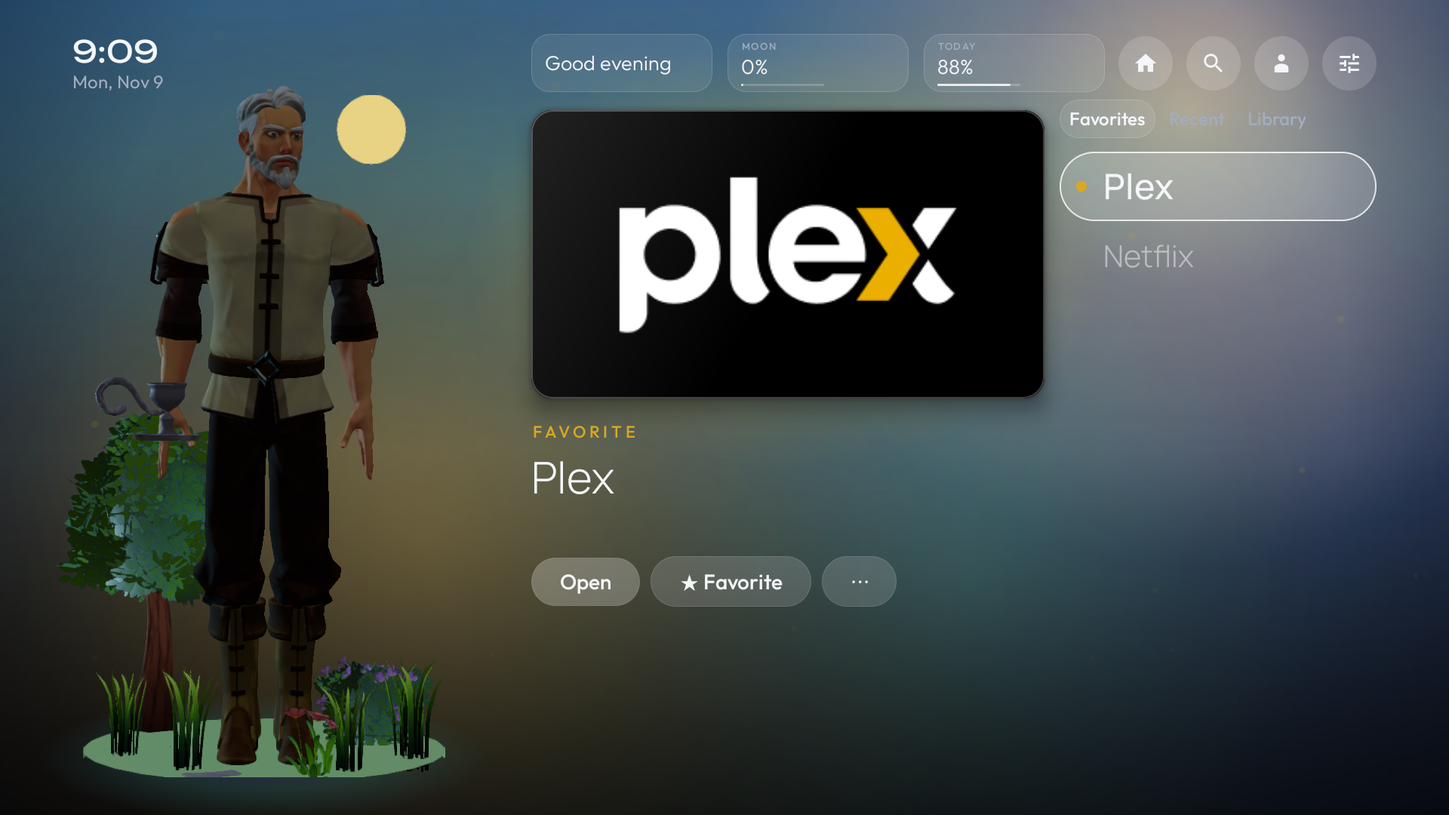
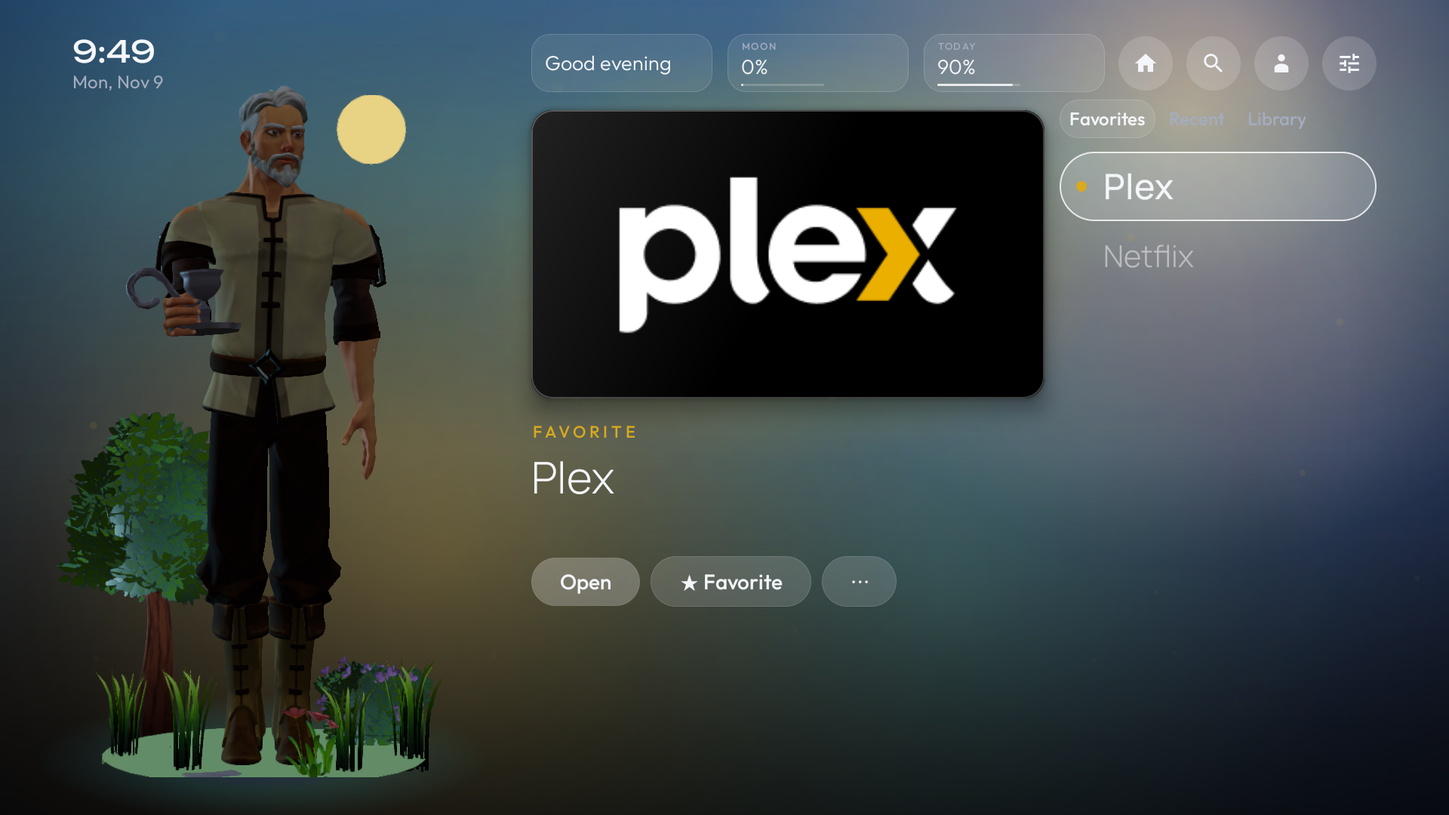
Compose poses with explicit arm ownership; umbrella grip row; safer Filament cleanup
Gestures no longer fight held layers: a prop or the umbrella owns the right arm and the weather
pose owns the left, so arm gestures on an owned arm are dropped while head and eyes still react.
Prop swaps go through an empty hand. Assets are destroyed when loading fails partway; engine
bookkeeping is cleared on destroy. Docs and policy tests updated.

diff --git a/app/src/main/java/dev/l1avzh/haven/CharacterLogic.kt b/app/src/main/java/dev/l1avzh/haven/CharacterLogic.kt
@@ -159,6 +159,8 @@ object PropGrips {
         "axe" to Grip(-0.50f, 0.10f, -1.00f, -0.10f, 1f),
         "staff" to Grip(-0.30f, 0.10f, -1.10f, -0.20f, 1f),       // planted beside the foot, gripped at chest height
     )
+    /** The umbrella is held by the weather stance, not chosen in the Studio; its arm pose lives here with the other grips (canopy leaning slightly back, over the head). */
+    val UMBRELLA = Grip(-0.60f, -0.06f, -1.20f, -0.05f, 1f)
     fun of(prop: String): Grip? = table[prop]
 }
 
@@ -175,10 +177,12 @@ class Pose {
     var curlR = 0f; var curlL = 0f
     /** How much of the saved prop, the umbrella and the bed is "present": the renderer scales each to this, so they grow and shrink with the pose instead of popping. */
     var propScale = 1f; var umbrellaScale = 0f; var bedScale = 0f
+    /** The prop the right hand is carrying right now (or putting away / taking out), so the renderer never shows a stale one. */
+    var heldProp = "none"
     /** 0 standing .. 1 lying down; the camera widens with it so the whole bed fits. */
     var sleepFrame = 0f
     fun clear() { rot.fill(0f); hipsX = 0f; hipsY = 0f; hipsZ = 0f; rootYaw = 0f; rootRoll = 0f; rootPitch = 0f; rootScale = 1f; rootX = 0f; rootY = 0f; eyes = 1f
-        curlR = 0f; curlL = 0f; propScale = 1f; umbrellaScale = 0f; bedScale = 0f; sleepFrame = 0f }
+        curlR = 0f; curlL = 0f; propScale = 1f; umbrellaScale = 0f; bedScale = 0f; sleepFrame = 0f; heldProp = "none" }
     fun add(joint: String, pitch: Float, yaw: Float, roll: Float) {
         val i = INDEX[joint] ?: return; rot[i*3] += pitch; rot[i*3 + 1] += yaw; rot[i*3 + 2] += roll
     }
@@ -214,7 +218,9 @@ class CharacterAnimator(private val reactor: CharacterReactor) {
 
     // weights derived each frame
     private var umb = 0f      // umbrella weight: the strongest weather stance
-    private var free = 0f     // how much the right arm is busy (prop or umbrella): one-handed gestures use the left arm by this much
+    private var rBusy = 0f    // how much the right arm is owned by a prop or the umbrella; one-handed gestures move to the left arm by this much
+    private var lBusy = 0f    // how much the left arm is owned by the weather pose; gestures on it are dropped by this much
+    private var shownProp = "none"   // the prop the right hand carries now; changes only through an empty hand, so a swap is put-away then take-out
 
     fun update(nowMs: Long, motion: Float): Pose {
         val t = nowMs / 1000.0
@@ -226,10 +232,12 @@ class CharacterAnimator(private val reactor: CharacterReactor) {
         for (s in Stance.values()) stances[s.ordinal] = ease(stances[s.ordinal], if (reactor.stance == s && s != Stance.SLEEP) 1f else 0f, dt, 2.6, snap)
         umb = 0f; for (s in Stance.values()) if (s != Stance.NONE && s != Stance.SLEEP) umb = max(umb, stances[s.ordinal])
         val awake = 1f - smooth(sleep / 0.3f)                      // lying down takes the prop and the arm pose away first
-        val grip = PropGrips.of(reactor.carried)
-        hold = ease(hold, if (grip != null) 1f else 0f, dt, 3.0, snap)
+        if (shownProp != reactor.carried && (hold <= 0.03f || snap)) shownProp = reactor.carried     // a different prop is swapped in only once the hand is empty
+        val grip = PropGrips.of(shownProp)
+        hold = ease(hold, if (grip != null && shownProp == reactor.carried) 1f else 0f, dt, 3.0, snap)
+        pose.heldProp = shownProp
         val carry = hold * (1f - umb) * awake                      // the saved prop is carried only when nothing stronger holds the hand
-        free = max(carry, umb) * awake
+        rBusy = max(carry, umb) * awake; lBusy = umb * awake
         pose.propScale = if (grip != null) carry else 0f
         pose.umbrellaScale = umb * awake
         pose.curlR = max(carry * (grip?.curl ?: 0f), umb * awake); pose.curlL = 0.16f
@@ -308,7 +316,8 @@ class CharacterAnimator(private val reactor: CharacterReactor) {
 
     /** Holding an umbrella with the right arm, plus what the weather does to the rest of the body. */
     private fun stancePose(s: Stance, t: Double, w: Float, motion: Float) {
-        pose.add("upperarm_r", -0.55f * w, 0f, -0.10f * w); pose.add("forearm_r", -1.25f * w, 0f, 0f); pose.add("hand_r", -0.05f * w, 0f, 0f)
+        val u = PropGrips.UMBRELLA
+        pose.add("upperarm_r", u.upper * w, 0f, u.roll * w); pose.add("forearm_r", u.fore * w, 0f, 0f); pose.add("hand_r", u.hand * w, 0f, 0f)
         when (s) {
             Stance.RAIN -> { pose.add("head", -0.1f * w, 0f, 0f); pose.add("upperarm_l", -0.2f * w, 0f, -0.22f * w); pose.add("forearm_l", -0.55f * w, 0f, 0f) }
             Stance.SNOW -> { pose.add("head", -0.18f * w, 0f, 0.05f * w); pose.add("upperarm_l", -0.35f * w, 0f, -0.28f * w); pose.add("forearm_l", -0.5f * w, 0f, 0f) }
@@ -328,14 +337,17 @@ class CharacterAnimator(private val reactor: CharacterReactor) {
         }
     }
 
-    /** One arm. [side] is 'l' or 'r'; a positive [roll] always means "away from the body". */
-    private fun arm(side: Char, up: Float, roll: Float, fore: Float, hand: Float, w: Float) {
-        if (w <= 0f) return
+    /**
+     * One arm of a gesture. [side] is 'l' or 'r'; a positive [roll] always means "away from the body". An arm that the held layers own (the right one while it
+     * carries a prop or the umbrella, the left one while the weather pose uses it) ignores the gesture by that much: gestures never fight a held pose.
+     */
+    private fun arm(side: Char, up: Float, roll: Float, fore: Float, hand: Float, w0: Float) {
+        val w = w0 * (1f - (if (side == 'r') rBusy else lBusy)); if (w <= 0f) return
         val sgn = if (side == 'r') 1f else -1f
         pose.add("upperarm_$side", up * w, 0f, roll * sgn * w); pose.add("forearm_$side", fore * w, 0f, 0f); pose.add("hand_$side", hand * w, 0f, 0f)
     }
-    /** A one-handed gesture: the right hand normally, the free left hand while the right one is busy, blended as that changes. */
-    private fun oneHand(up: Float, roll: Float, fore: Float, hand: Float, w: Float) { arm('r', up, roll, fore, hand, w * (1f - free)); arm('l', up, roll, fore, hand, w * free) }
+    /** A one-handed gesture: the right hand when it is empty, the left (if the weather is not using it) while the right is busy; with both busy it is dropped. */
+    private fun oneHand(up: Float, roll: Float, fore: Float, hand: Float, w: Float) { arm('r', up, roll, fore, hand, w); arm('l', up, roll, fore, hand, w * rBusy) }
 
     /** Relaxed "waiting for a selection": weight on one leg, a free hand at the chin, the head tilted, slow breathing. */
     private fun waitingPose(t: Double, w: Float) {
@@ -376,7 +388,7 @@ class CharacterAnimator(private val reactor: CharacterReactor) {
                 pose.eyes = max(pose.eyes, 1f + 0.35f * e)
             }
             Beat.LONG_PRESS -> {                                    // both hands lift: "options" (a busy hand stays where it is)
-                arm('l', -0.55f, 0.15f, -0.8f, 0f, e); arm('r', -0.55f, 0.15f, -0.8f, 0f, e * (1f - free))
+                arm('l', -0.55f, 0.15f, -0.8f, 0f, e); arm('r', -0.55f, 0.15f, -0.8f, 0f, e)
                 pose.add("head", 0.05f * e, 0f, 0f)
             }
             Beat.PREVIEW -> {                                       // quarter turn to show the outfit off
@@ -393,7 +405,7 @@ class CharacterAnimator(private val reactor: CharacterReactor) {
             }
             Beat.LISTEN -> {                                        // hands to the ears, a small nod to a beat that only the character hears
                 val bob = sin(u * 2 * PI.toFloat() * 3f) * m
-                arm('l', -0.9f, 0.25f, -1.7f, 0f, e); arm('r', -0.9f, 0.25f, -1.7f, 0f, e * (1f - free))
+                arm('l', -0.9f, 0.25f, -1.7f, 0f, e); arm('r', -0.9f, 0.25f, -1.7f, 0f, e)
                 pose.add("head", 0.05f * bob * e, 0f, 0.03f * bob * e); pose.hipsY += 0.006f * bob * e
             }
             Beat.WATCH -> {                                         // turns toward the screen and presents a remote with the free hand
@@ -403,7 +415,7 @@ class CharacterAnimator(private val reactor: CharacterReactor) {
             }
             Beat.LAUNCH_LISTEN -> {                                 // a bigger version of the same gesture as the app opens
                 val bob = sin(u * 2 * PI.toFloat() * 3f) * m
-                arm('l', -1.0f, 0.3f, -1.8f, 0f, e); arm('r', -1.0f, 0.3f, -1.8f, 0f, e * (1f - free))
+                arm('l', -1.0f, 0.3f, -1.8f, 0f, e); arm('r', -1.0f, 0.3f, -1.8f, 0f, e)
                 pose.add("head", 0.08f * bob * e, 0f, 0f); pose.eyes = max(pose.eyes, 1f + 0.2f * e)
             }
             Beat.LAUNCH_WATCH -> {
@@ -417,7 +429,7 @@ class CharacterAnimator(private val reactor: CharacterReactor) {
             }
             Beat.EQUIP -> {                                         // a full turn on the spot while the new look is swapped in
                 pose.rootYaw = (2 * PI.toFloat()) * smooth(u) * m
-                arm('l', -0.1f, 0.3f, 0f, 0f, e); arm('r', -0.1f, 0.3f, 0f, 0f, e * (1f - free))
+                arm('l', -0.1f, 0.3f, 0f, 0f, e); arm('r', -0.1f, 0.3f, 0f, 0f, e)
                 pose.hipsY += 0.015f * sin(u * PI.toFloat()) * m
             }
         }

diff --git a/app/src/test/java/dev/l1avzh/haven/DayWeatherTest.kt b/app/src/test/java/dev/l1avzh/haven/DayWeatherTest.kt
@@ -102,9 +102,9 @@ class SleepAndStanceTest {
     @Test fun coldRaisesTheUmbrellaArmAndReducedMotionKeepsTheStill() {
         val r = CharacterReactor(); val a = CharacterAnimator(r); r.stance = Stance.COLD
         var p = a.update(0, 1f); for (t in 16..4000 step 16) p = a.update(t.toLong(), 1f)
-        assertTrue("forearm raised", -p.get("forearm_r", 0) > 1.2f)
+        assertTrue("forearm raised", -p.get("forearm_r", 0) > 1.1f)
         val calm = CharacterAnimator(r); var q = calm.update(0, 0f); for (t in 16..4000 step 16) q = calm.update(t.toLong(), 0f)
-        assertTrue("reduced motion keeps the pose", -q.get("forearm_r", 0) > 1.2f)
+        assertTrue("reduced motion keeps the pose", -q.get("forearm_r", 0) > 1.1f)
         val s2 = CharacterReactor(); s2.stance = Stance.SLEEP; val z = CharacterAnimator(s2); var sp = z.update(0, 0f); for (t in 16..6000 step 16) sp = z.update(t.toLong(), 0f)
         assertTrue("and still lies down", sp.rootPitch < -1.4f)
     }
@@ -184,6 +184,48 @@ class PropPolicyTest {
         for (t in 2616..3200 step 16) { val pf = af.update(t.toLong(), 1f); val pb = ab.update(t.toLong(), 1f)
             rightMove = maxOf(rightMove, kotlin.math.abs(pb.get("forearm_r", 0) - base)); leftLift = maxOf(leftLift, -pb.get("forearm_l", 0)); freeRight = maxOf(freeRight, -pf.get("forearm_r", 0)) }
         assertTrue("the busy right arm stays put ($rightMove)", rightMove < 0.1f); assertTrue("the left hand lifts instead ($leftLift)", leftLift > 0.5f); assertTrue("an empty right hand does the gesture", freeRight > 0.5f)
+    }
+    private fun arms(p: Pose) = listOf("upperarm_l", "forearm_l", "hand_l", "upperarm_r", "forearm_r", "hand_r").flatMap { j -> (0..2).map { p.get(j, it) } }
+    private fun rainPose(prop: String, beat: (CharacterReactor, Long) -> Unit, waiting: Boolean = false): Pair<List<Float>, List<Float>> {
+        // compare mid-gesture frames: run both worlds in lockstep
+        val rb = CharacterReactor(); rb.carried = prop; rb.stance = Stance.RAIN; rb.waiting = waiting; val ab = CharacterAnimator(rb)
+        val rq = CharacterReactor(); rq.carried = prop; rq.stance = Stance.RAIN; rq.waiting = waiting; val aq = CharacterAnimator(rq)
+        for (t in 0..5000 step 16) { ab.update(t.toLong(), 1f); aq.update(t.toLong(), 1f) }
+        beat(rb, 5000)
+        var maxDiff = 0f; var headMoved = 0f
+        for (t in 5016..5700 step 16) { val pb = ab.update(t.toLong(), 1f); val pq = aq.update(t.toLong(), 1f)
+            arms(pb).zip(arms(pq)).forEach { (x, y) -> maxDiff = maxOf(maxDiff, kotlin.math.abs(x - y)) }; headMoved = maxOf(headMoved, kotlin.math.abs(pb.get("head", 0) - pq.get("head", 0))) }
+        return listOf(maxDiff) to listOf(headMoved)
+    }
+    @Test fun gesturesNeverFightTheWeatherPoseOrTheUmbrellaHand() {
+        for (prop in listOf("none", "sword", "book", "staff", "candle")) for (k in listOf(KeyKind.OK, KeyKind.BACK)) {
+            val (arm, head) = rainPose(prop, { r, now -> r.onInput(CharInput.Key(k), now) })
+            assertTrue("$prop/$k: arms must stay on the rain pose (moved ${arm[0]})", arm[0] < 0.02f)
+            if (k == KeyKind.OK) assertTrue("$prop: the nod remains ($head)", head[0] > 0.02f)
+        }
+        for (ev in listOf<(CharacterReactor, Long) -> Unit>({ r, n -> r.onInput(CharInput.AppFocus(AppKind.MUSIC), n) }, { r, n -> r.onInput(CharInput.AppLaunch(AppKind.VIDEO), n) },
+            { r, n -> r.onInput(CharInput.Returned, n) }, { r, n -> r.onLongPress(n) }, { r, n -> r.onInput(CharInput.Studio(StudioAction.EQUIP), n) })) {
+            val (arm, _) = rainPose("sword", ev); assertTrue("app and studio reactions leave the rain arms alone (${arm[0]})", arm[0] < 0.02f)
+        }
+    }
+    @Test fun waitingDoesNotMoveArmsHeldByWeather() {
+        val on = CharacterReactor().also { it.stance = Stance.RAIN; it.waiting = true }; val off = CharacterReactor().also { it.stance = Stance.RAIN }
+        val a1 = CharacterAnimator(on); val a2 = CharacterAnimator(off); var p1 = a1.update(0, 1f); var p2 = a2.update(0, 1f)
+        for (t in 16..6000 step 16) { p1 = a1.update(t.toLong(), 1f); p2 = a2.update(t.toLong(), 1f) }
+        arms(p1).zip(arms(p2)).forEach { (x, y) -> assertEquals("waiting must not move an arm the weather owns", y, x, 0.02f) }
+    }
+    @Test fun swappingTheSavedPropGoesThroughAnEmptyHand() {
+        val r = CharacterReactor(); r.carried = "sword"; val a = CharacterAnimator(r); run(r, a, 0, 3000)
+        r.carried = "staff"; var sawEmptyBetween = false; var last = "sword"; var bad = false
+        run(r, a, 3000, 6000) { p, _ -> if (p.heldProp != last) { if (p.propScale > 0.08f) bad = true; if (last == "sword" && p.heldProp == "staff") sawEmptyBetween = true; last = p.heldProp } }
+        assertTrue("the new prop appears only once the old one is gone", !bad && sawEmptyBetween)
+        val p = a.update(6100, 1f); assertEquals("staff", p.heldProp); assertTrue(p.propScale > 0.9f)
+    }
+    @Test fun sleepingIgnoresEveryReaction() {
+        val a = CharacterReactor().also { it.stance = Stance.SLEEP }; val b = CharacterReactor().also { it.stance = Stance.SLEEP }
+        val aa = CharacterAnimator(a); val ab = CharacterAnimator(b); for (t in 0..9000 step 16) { aa.update(t.toLong(), 1f); ab.update(t.toLong(), 1f) }
+        b.onInput(CharInput.Key(KeyKind.OK), 9000); b.onInput(CharInput.AppLaunch(AppKind.MUSIC), 9000)
+        for (t in 9016..9500 step 16) arms(aa.update(t.toLong(), 1f)).zip(arms(ab.update(t.toLong(), 1f))).forEach { (x, y) -> assertEquals(x, y, 1e-4f) }
     }
     @Test fun noJointSnapsDuringStateChanges() {
         val r = CharacterReactor(); r.carried = "candle"; val a = CharacterAnimator(r); var prev = a.update(0, 1f); var worst = 0f

diff --git a/app/src/main/java/dev/l1avzh/haven/CharacterView.kt b/app/src/main/java/dev/l1avzh/haven/CharacterView.kt
@@ -253,11 +253,12 @@ class CharacterView(ctx: Context) : TextureView(ctx), Choreographer.FrameCallbac
     private fun loadModel(def: CharacterDef): Model? {
         val e = engine ?: return null; val loader = assetLoader ?: return null; val rl = resources ?: return null
         val tm = e.transformManager
+        var created: FilamentAsset? = null
         return try {
             val bytes = context.assets.open(def.asset).use { it.readBytes() }
             val buf = ByteBuffer.allocateDirect(bytes.size).put(bytes).apply { flip() }
             val a = loader.createAsset(buf) ?: return null
-            rl.loadResources(a); a.releaseSourceData()
+            created = a; rl.loadResources(a); a.releaseSourceData()
             fun joint(name: String): Joint? { val ent = a.getFirstEntityByName(name); if (ent == 0) return null
                 val inst = tm.getInstance(ent); val m = FloatArray(16); tm.getTransform(inst, m); return Joint(ent, inst, m) }
             val joints = (Pose.JOINTS + "root").mapNotNull { n -> joint(n)?.let { n to it } }.toMap()
@@ -269,21 +270,22 @@ class CharacterView(ctx: Context) : TextureView(ctx), Choreographer.FrameCallbac
                 joint("${f}_0${seg}_${s.first}")?.let { fingers += Finger(it, s.second, fi, seg) }
             Model(def, a, joints, listOfNotNull(joint("eye_l"), joint("eye_r")), outfits, star, a.entities.filter { it !in optional }.toIntArray(), a.getFirstEntityByName("attach_hand_r"), fingers)
                 .also { models[def.id] = it }
-        } catch (t: Throwable) { Log.w("Haven", "character ${def.id} not loaded: $t"); null }
+        } catch (t: Throwable) { created?.let { runCatching { loader.destroyAsset(it) } }; Log.w("Haven", "character ${def.id} not loaded: $t"); null }     // nothing half-loaded is left behind
     }
 
     /** Reads world.glb (props, bed, scenery, weather effects). Null when it cannot be loaded: the character then shows without them. */
     private fun loadWorld(): World? {
         world?.let { return it }
         val e = engine ?: return null; val loader = assetLoader ?: return null; val rl = resources ?: return null
+        var created: FilamentAsset? = null
         return try {
             val bytes = context.assets.open("character/world.glb").use { it.readBytes() }
             val buf = ByteBuffer.allocateDirect(bytes.size).put(bytes).apply { flip() }
             val a = loader.createAsset(buf) ?: return null
-            rl.loadResources(a); a.releaseSourceData()
+            created = a; rl.loadResources(a); a.releaseSourceData()
             val names = Look.ALL_PROPS.filter { it != "none" }.map { "prop_$it" } + listOf("prop_umbrella", "bed", "env_day", "env_snow", "ground_grass", "ground_snow", "env_sun", "env_moon", "fx_rain_0", "fx_rain_1", "fx_snow_0", "fx_snow_1")
             World(a, names.associateWith { a.getFirstEntityByName(it) }).also { world = it }
-        } catch (t: Throwable) { Log.w("Haven", "world not loaded: $t"); null }
+        } catch (t: Throwable) { created?.let { runCatching { loader.destroyAsset(it) } }; Log.w("Haven", "world not loaded: $t"); null }
     }
 
     /** Shows the selected character with its outfit, prop and (if worn) pendant, and the matching scenery. Only that model stays in memory. */
@@ -316,6 +318,7 @@ class CharacterView(ctx: Context) : TextureView(ctx), Choreographer.FrameCallbac
             swapChain?.let { e.destroySwapChain(it) }; swapChain = null
             models.values.forEach { assetLoader?.destroyAsset(it.asset) }; models.clear(); active = null
             world?.let { assetLoader?.destroyAsset(it.asset) }; world = null
+            shown.clear(); framedUmb = -1f; framedSleep = -1f     // entity ids belong to the engine being destroyed
             resources?.destroy(); resources = null
             assetLoader?.destroy(); assetLoader = null
             materials?.destroyMaterials(); materials?.destroy(); materials = null
@@ -378,8 +381,7 @@ class CharacterView(ctx: Context) : TextureView(ctx), Choreographer.FrameCallbac
         fun vis(name: String, on: Boolean): Int { val ent = w.ent[name] ?: 0; if (ent == 0) return 0
             if (on && shown.add(ent)) s.addEntity(ent) else if (!on && shown.remove(ent)) s.removeEntity(ent); return ent }
         fun scaled(name: String, f: Float) { val ent = vis(name, f > 0.02f); if (ent != 0 && f > 0.02f) setS(tm, ent, f) }
-        val prop = look.prop
-        for (n in w.ent.keys) if (n.startsWith("prop_") && n != "prop_umbrella") scaled(n, if (n == "prop_$prop") p.propScale else 0f)
+        for (n in w.ent.keys) if (n.startsWith("prop_") && n != "prop_umbrella") scaled(n, if (n == "prop_${p.heldProp}") p.propScale else 0f)      // the animator names the prop in hand, so a stale one cannot linger
         scaled("prop_umbrella", p.umbrellaScale)
         scaled("bed", p.bedScale)
         val lying = p.sleepFrame > 0.3f; val snowy = envEffect == WeatherEffect.SNOW

diff --git a/docs/character.md b/docs/character.md
@@ -68,24 +68,29 @@ What would raise it further: the paid Quaternius Wizard outfit or any CC0 hat/ro
 
 ## State, pose and prop policy
 
-One animator (`CharacterAnimator`) turns the state into joint rotations, and the renderer derives what is visible from the same weights, so the pose,
-the prop and the scene cannot disagree. Every layer has an eased weight (nothing snaps); `PropPolicyTest` checks the rules below, including that no
-joint moves more than 0.09 rad per 16 ms frame across a rain, sleep, wake and cold sequence.
+One animator (`CharacterAnimator`) composes the pose; the renderer derives what is visible from the same weights, so pose, prop and scene cannot
+disagree. Every layer has an eased weight (nothing snaps). `PropPolicyTest` checks the rules below.
 
-| State (highest priority first) | Right hand | Left hand | Visible |
+**Layers, bottom to top**: idle (breath, weight shift, head drift, blinks, gaze) → waiting pose → carrying the saved prop → weather stance (umbrella) →
+lying in bed → beats (remote and app reactions). Gaze and idle sway fade out as the body lies down.
+
+**Arm ownership** is what stops layers fighting. Each arm has a "busy" weight: the right arm is owned by the carried prop or the umbrella, the left arm by the
+weather stance (its rain/snow/storm/cold pose). A gesture (`arm()`/`oneHand()`) is multiplied by `1 - busy` for the arm it targets:
+
+| Situation | Right arm | Left arm | Gestures (confirm, back, listen, watch, waiting hand, return, ...) |
 |---|---|---|---|
-| Sleeping (also while lying down or getting up) | empty, resting along the body | resting along the body | bed (grows under the standing character, who then lies on their back on it, head on the pillow); no prop, no umbrella, no weather particles |
-| Rain, snow, storm, cold | holds the umbrella (the fist closes on its pole; the saved prop is put away) | free; weather gesture | umbrella; the saved prop is hidden until the weather clears |
-| A saved prop is chosen | carries it; the arm pose is that prop's row in `PropGrips` | free | the prop in the hand |
-| No prop ("none") | relaxed | relaxed | nothing |
+| Empty hands, no weather | free | free | right hand; two-handed ones use both |
+| A prop in the right hand | carries (arm pose from `PropGrips`) | free | one-handed ones move to the left hand, blended as the carry weight changes; the right arm never moves |
+| Rain, snow, storm, cold | holds the umbrella (`PropGrips.UMBRELLA`) | weather pose | arm gestures are dropped; head, spine and eyes still react (nod, glance, bow) |
+| Sleeping, lying down or getting up | rests | rests | all beats are ignored (the reactor refuses them), idle fades out |
 
-* **One-handed gestures** (confirm, "watch", the waiting pose's hand at the chin) use the right hand when it is empty and the free left hand when it is busy,
-  blended by the carry weight, so a prop is never waved around. Two-handed gestures (listen, options) only move a busy hand's partner. The earlier waves
-  (return, confirm hand raised) were replaced by a nod and a small open hand.
-* **Order of events**: going to sleep puts the prop away in the first 15% of the transition, then the bed grows under the standing character (30%),
-  then the character lies down; waking reverses it, and the prop returns only once the character stands. Prop, umbrella and bed scale with their weights.
-* **Reduced motion** shows the held pose directly (carrying, umbrella, lying), without easing, breathing or gestures.
-* **The camera** follows the same weights: it backs off for the umbrella's head-room and widens as the character lies down so the whole bed fits.
+**Props**: the prop in hand is named by the animator (`Pose.heldProp`). Choosing another one in the Studio first lowers the hold weight to zero (the old prop
+shrinks away), then switches, then the new one grows, so a stale prop can never linger and two props are never shown. The umbrella replaces the saved prop
+(crossfade by scale) and the saved prop returns when the weather clears; sleeping puts it away in the first 15% of the transition.
+
+**Order of events when going to sleep**: prop away, then the bed grows under the standing character (30%), then the character lies down; waking reverses it
+and the prop returns last. Reduced motion shows the held pose directly. The camera follows the umbrella and sleep weights. A character change swaps the
+model and re-attaches the props to the new hand; the animator keeps its weights, so the new character is already in the right state.
 
 ## Grips and sockets
 
@@ -109,13 +114,13 @@ a pose from the side (see [day-night.md](day-night.md)).
 |---|---|
 | Focus moves to something | glance (head and chest turn toward its screen position), at most one per 90 ms |
 | A tab, category or screen changes | small chest lift and settle |
-| OK pressed | nod, raised hand, widened eyes (key repeats never restart it) |
-| OK held | both hands lift, once per hold |
-| Back pressed | small step back and an open-hand dismissal |
-| Focus on a music app | hands to the ears and a small nod, at most once every 1.8 s |
-| Focus on a video app | turns toward the screen and presents a remote |
+| OK pressed | nod, widened eyes and a small lift of the free hand (key repeats never restart it) |
+| OK held | both hands lift, once per hold (a busy hand stays where it is) |
+| Back pressed | small step back and an open-hand dismissal with the left hand |
+| Focus on a music app | hands to the ears and a small nod, at most once every 1.8 s (an occupied hand stays put) |
+| Focus on a video app | turns toward the screen and presents a remote with the free hand |
 | Opening a music or video app | a bigger version of the same gesture |
-| Returning to Haven after opening an app | a small wave |
+| Returning to Haven after opening an app | a glad nod and an open free hand (no wave) |
 | Studio: preview / equip / apply / cancel | quarter turn / full turn while the look swaps / bow / shrug |
 | Nothing selected | relaxed waiting pose, eyes wandering |
 

diff --git a/CHANGELOG.md b/CHANGELOG.md
@@ -1,6 +1,7 @@
 # Changelog
 
 ## Unreleased
+- Pose composition: explicit arm ownership (a prop or the umbrella owns the right arm, the weather pose owns the left); gestures are dropped on an owned arm instead of fighting it, while head and eyes still react. Swapping the saved prop goes through an empty hand. The umbrella got its own grip row (`PropGrips.UMBRELLA`) and a smaller canopy. Filament assets are destroyed if loading fails partway; entity bookkeeping is cleared when the engine is destroyed.
 - Pose and props: props are now baked with their own grip (shaft along the knuckle row) and carried with a per-prop arm pose and closing fingers; sockets are computed from each model's hand. One-handed gestures move to the free hand while the right one carries a prop; the waves were replaced by a nod and an open hand. The prop, umbrella and bed scale with the pose weights (no popping), with a clear priority (sleep, then weather umbrella, then the saved prop). Sleeping is a new sequence: the bed grows under the standing character, who lies on their back on the mattress with the head on the pillow, knees softly bent and arms resting; waking reverses it. The camera follows. New policy tests.
 - Scene and props: a small 3D diorama behind the character that follows day, night and weather (sun, tree, bush and grass by day; moon at night; pines and 3D flakes in snow; 3D drops in rain and storms; the twin bed with pillow and blanket while sleeping), using CC0 models by Quaternius and TCCDev. Real 3D props: Sword, Axe, Candle, Book and the wizard Staff (the old Lantern, Tablet and Compass are gone; saved ones fall back to the default). The Canvas rain and snow lines were removed. One shared `world.glb` is loaded on demand.
 - Fixes: a failed weather request was retried every minute tick; it is now retried at most every 5 minutes. Broadcast receivers are registered not-exported. The unused `warden.glb` (0.8 MiB) was removed.
